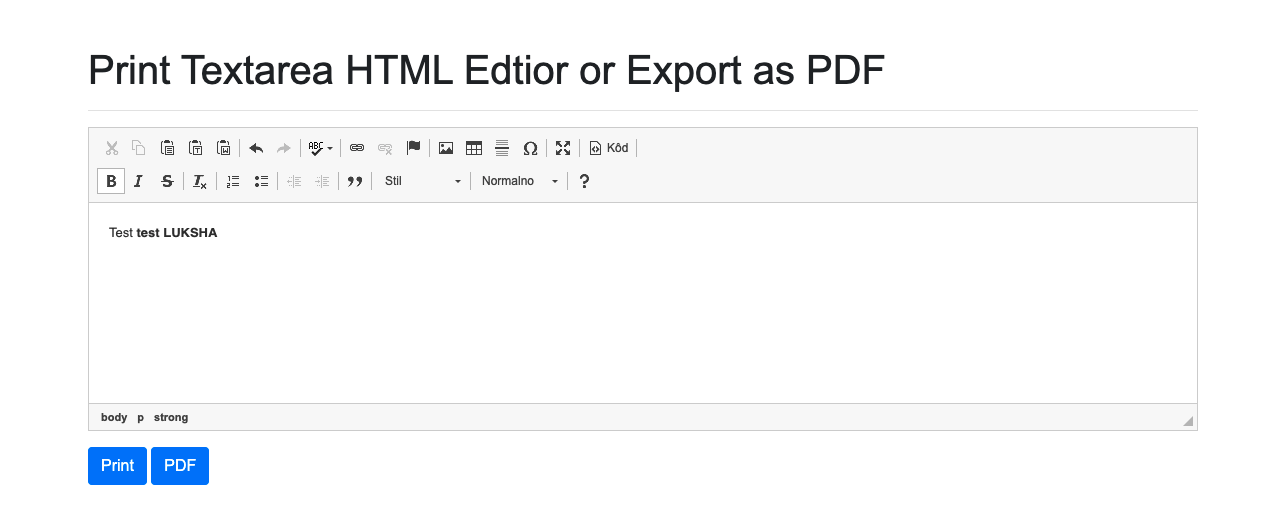
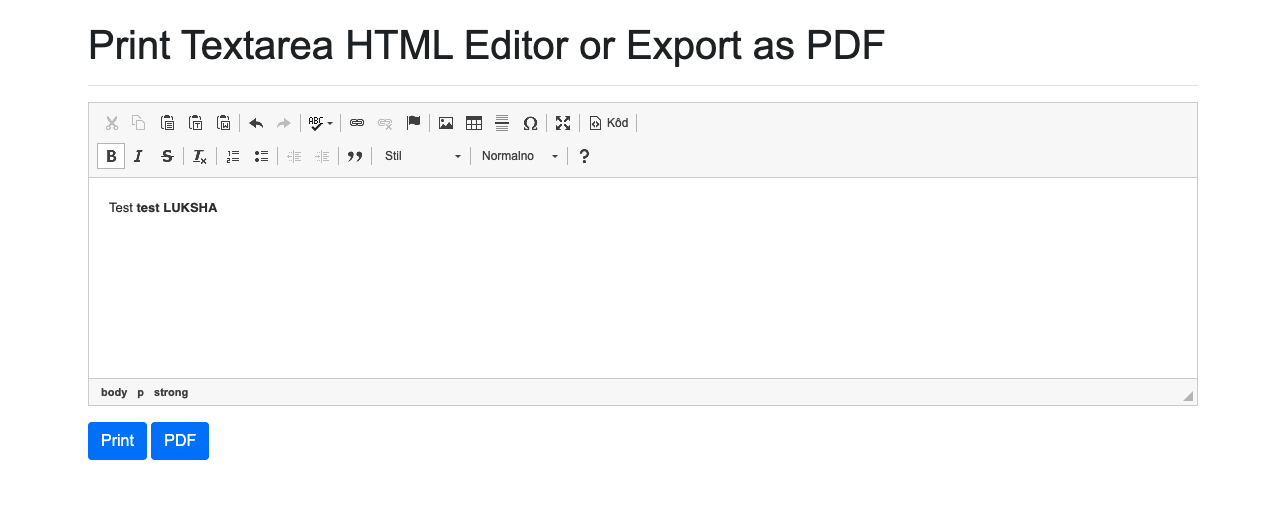
Typo fix

diff --git a/index.html b/index.html
@@ -1,6 +1,6 @@
 <!DOCTYPE html>
 <head>
-    <title>Print Textarea HTML Edtior or Export as PDF</title>
+    <title>Print Textarea HTML Editor or Export as PDF</title>
     <link rel="stylesheet" href="https://stackpath.bootstrapcdn.com/bootstrap/4.3.1/css/bootstrap.min.css">
     <style>* {
          font-family: Arial;
@@ -8,7 +8,7 @@
 </head>
 <body>
     <div class="container mt-5">
-    <h1>Print Textarea HTML Edtior or Export as PDF</h1>
+    <h1>Print Textarea HTML Editor or Export as PDF</h1>
     <hr>    
 
     <div class="form-group">

diff --git a/README.md b/README.md
@@ -1,2 +1,3 @@
-# Print Textarea HTML Edtior or Export as PDF
+# Print Textarea (HTML Editor) or Export as PDF
 
+![alt text](https://raw.githubusercontent.com/luksha6/Print-Textarea-HTML-Editor-or-export-as-PDF/master/textarea.png)
